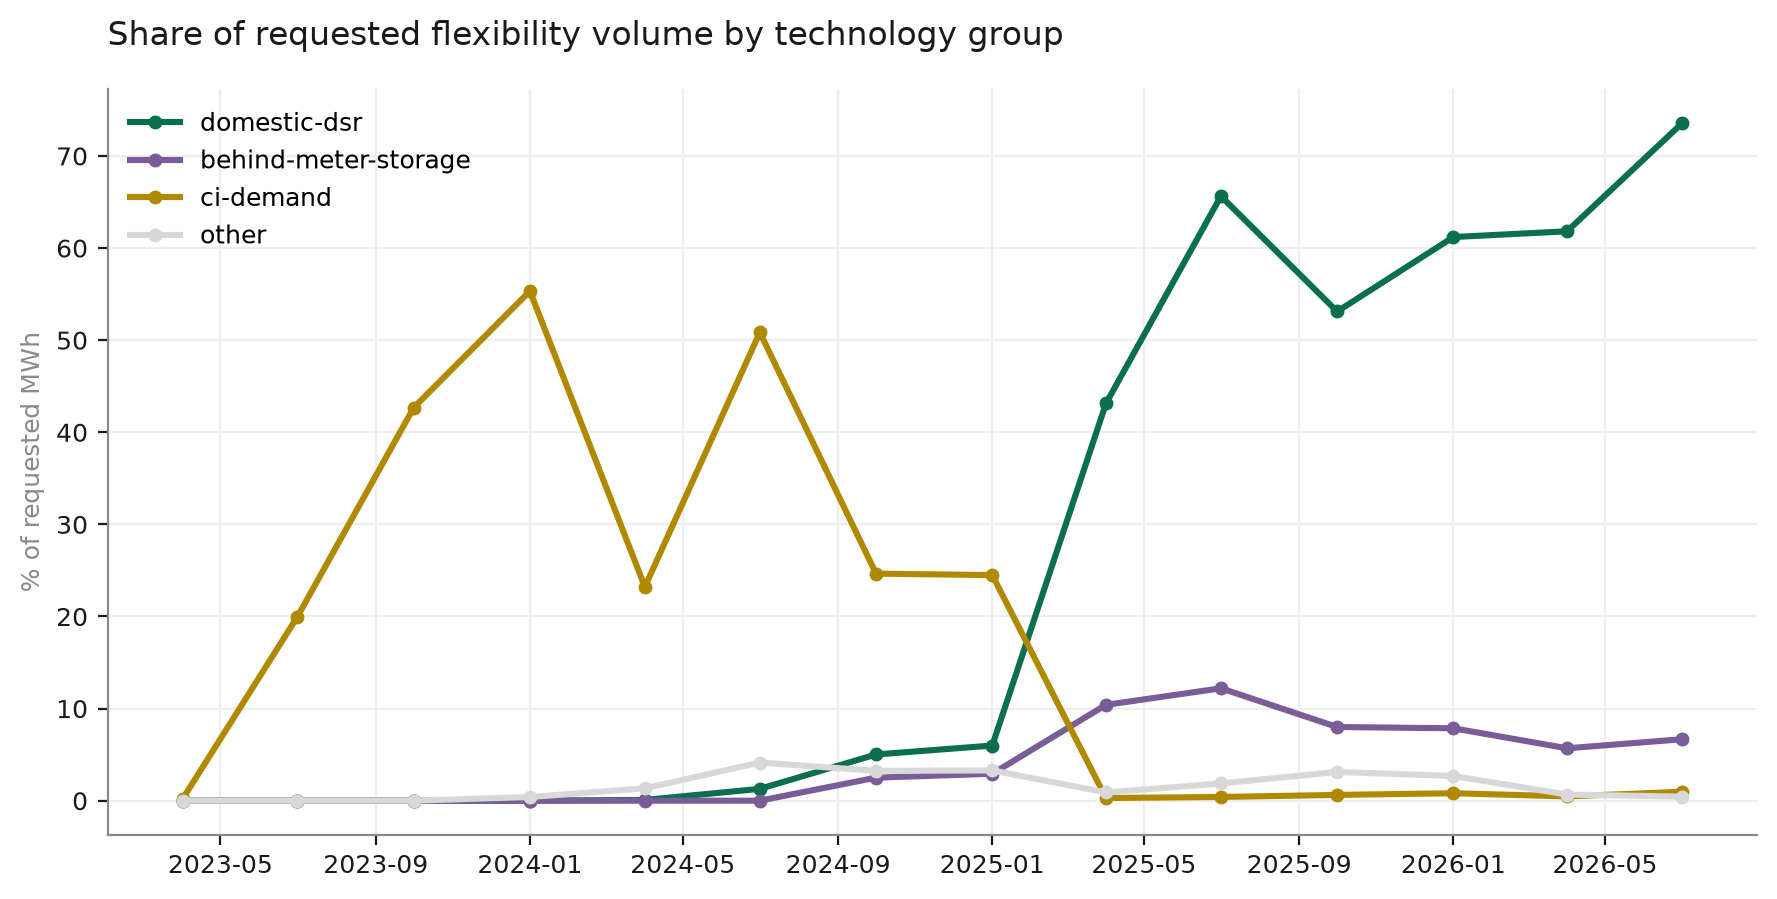
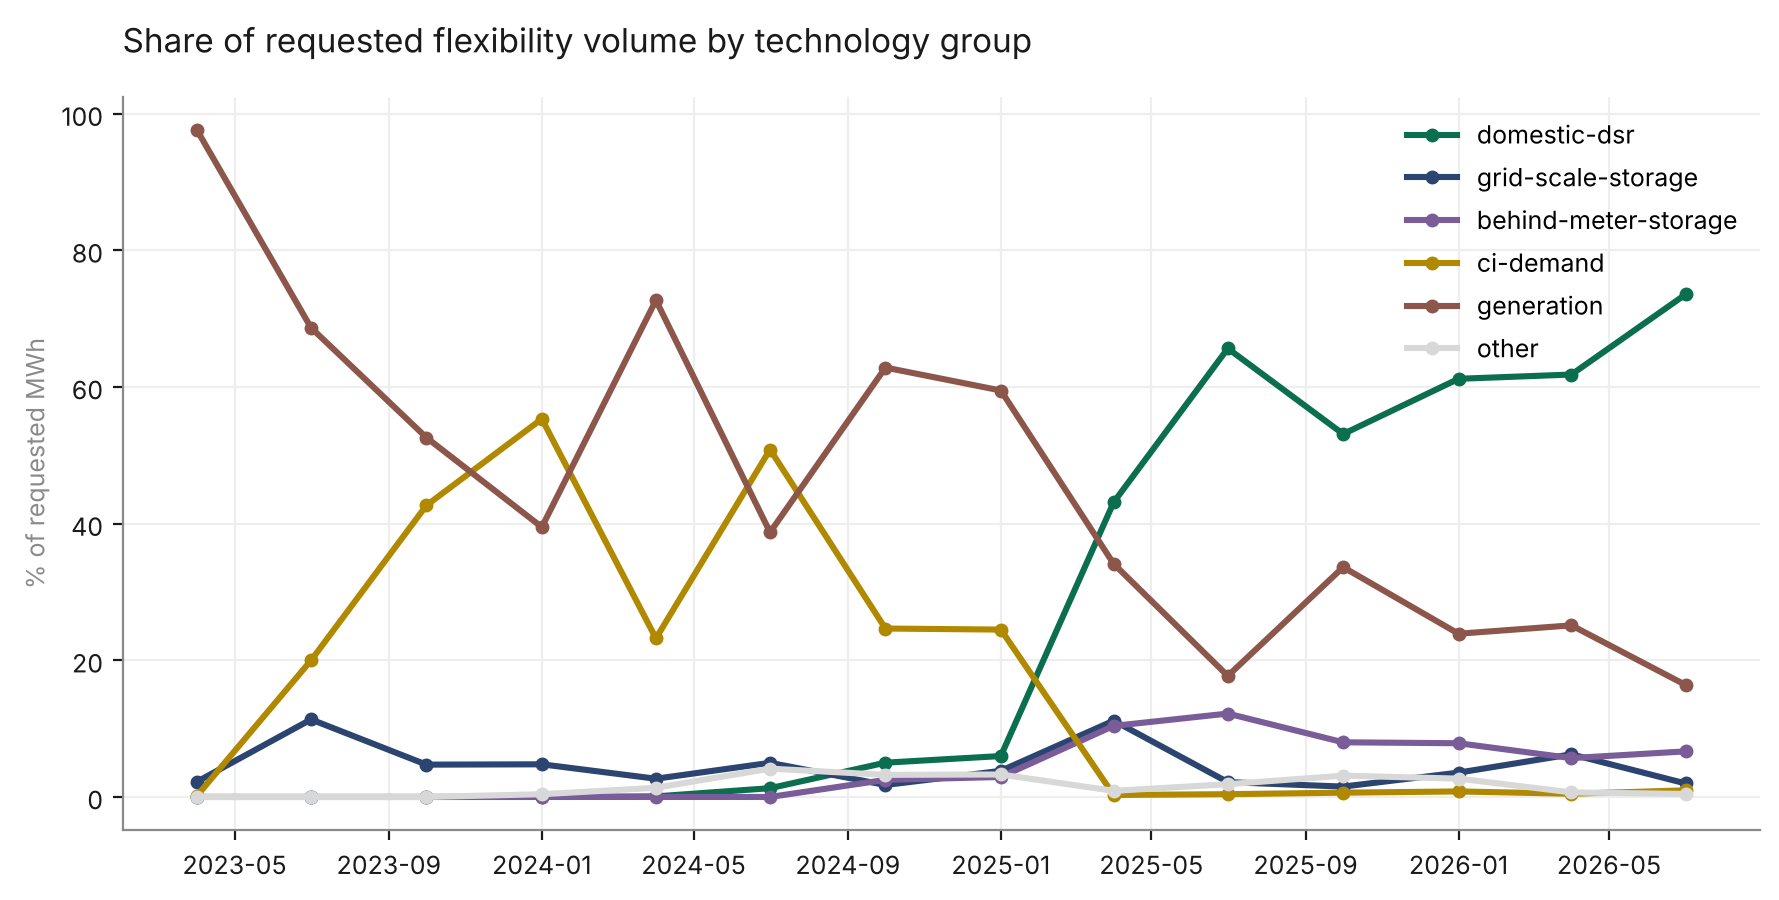
Fix grid-scale comparison in charts (use grid_scale_storage), redraw figures

diff --git a/src/ukpn/figures.py b/src/ukpn/figures.py
@@ -74,8 +74,9 @@ def share_chart(share: pd.DataFrame, out: Path | None = None) -> Path:
     fig, ax = plt.subplots(figsize=(9, 4.6))
 
     palette = {
-        "domestic_dsr": DIST, "grid_scale": GRID, "behind_meter_storage": "#7a5c99",
-        "ci_demand": "#b08900", "other": CLEAN, "unclassified": "#cccccc",
+        "domestic_dsr": DIST, "grid_scale_storage": GRID, "behind_meter_storage": "#7a5c99",
+        "ci_demand": "#b08900", "generation": "#8c564b", "other": CLEAN,
+        "unclassified": "#cccccc",
     }
     for col, colour in palette.items():
         if col in pivot.columns:
@@ -100,8 +101,10 @@ def price_chart(prices: pd.DataFrame, out: Path | None = None) -> Path:
     out = out or FIG_DIR / "price_by_product.png"
     out.parent.mkdir(parents=True, exist_ok=True)
 
-    d = prices[prices.tech_group.isin(["domestic_dsr", "grid_scale"])]
-    pivot = d.pivot(index="product", columns="tech_group", values="vw_price_gbp_per_mwh").fillna(0)
+    # Grid-scale here means grid_scale_storage (batteries). No fillna, so a product
+    # with no dispatches for a group gets no bar instead of a £0 bar.
+    d = prices[prices.tech_group.isin(["domestic_dsr", "grid_scale_storage"])]
+    pivot = d.pivot(index="product", columns="tech_group", values="vw_price_gbp_per_mwh")
 
     fig, ax = plt.subplots(figsize=(9, 0.7 * len(pivot) + 2.2))
     y = range(len(pivot))
@@ -109,9 +112,9 @@ def price_chart(prices: pd.DataFrame, out: Path | None = None) -> Path:
     if "domestic_dsr" in pivot:
         ax.barh([i + height / 2 for i in y], pivot["domestic_dsr"], height=height,
                 color=DIST, label="domestic DSR")
-    if "grid_scale" in pivot:
-        ax.barh([i - height / 2 for i in y], pivot["grid_scale"], height=height,
-                color=GRID, label="grid-scale")
+    if "grid_scale_storage" in pivot:
+        ax.barh([i - height / 2 for i in y], pivot["grid_scale_storage"], height=height,
+                color=GRID, label="grid-scale batteries")
 
     ax.set_yticks(list(y))
     ax.set_yticklabels(pivot.index, fontsize=9)

diff --git a/README.md b/README.md
@@ -4,9 +4,9 @@ UK Power Networks publish every flexibility dispatch they've issued since April 
 I wanted to use that to answer two questions:
 
 1. Are household assets (EV chargers and heat pumps) winning a bigger share of
-   dispatched volume over time, compared with grid-scale batteries and generators?
-2. What do they get paid per MWh compared with grid-scale, and does that change by
-   product or zone?
+   dispatched volume over time, compared with grid-scale batteries?
+2. What do they get paid per MWh compared with grid-scale batteries, and does that
+   change by product or zone?
 
 Before trusting any numbers I also rebuilt UKPN's own quality checks against the
 public data, mainly to make sure I understood what each field meant.
